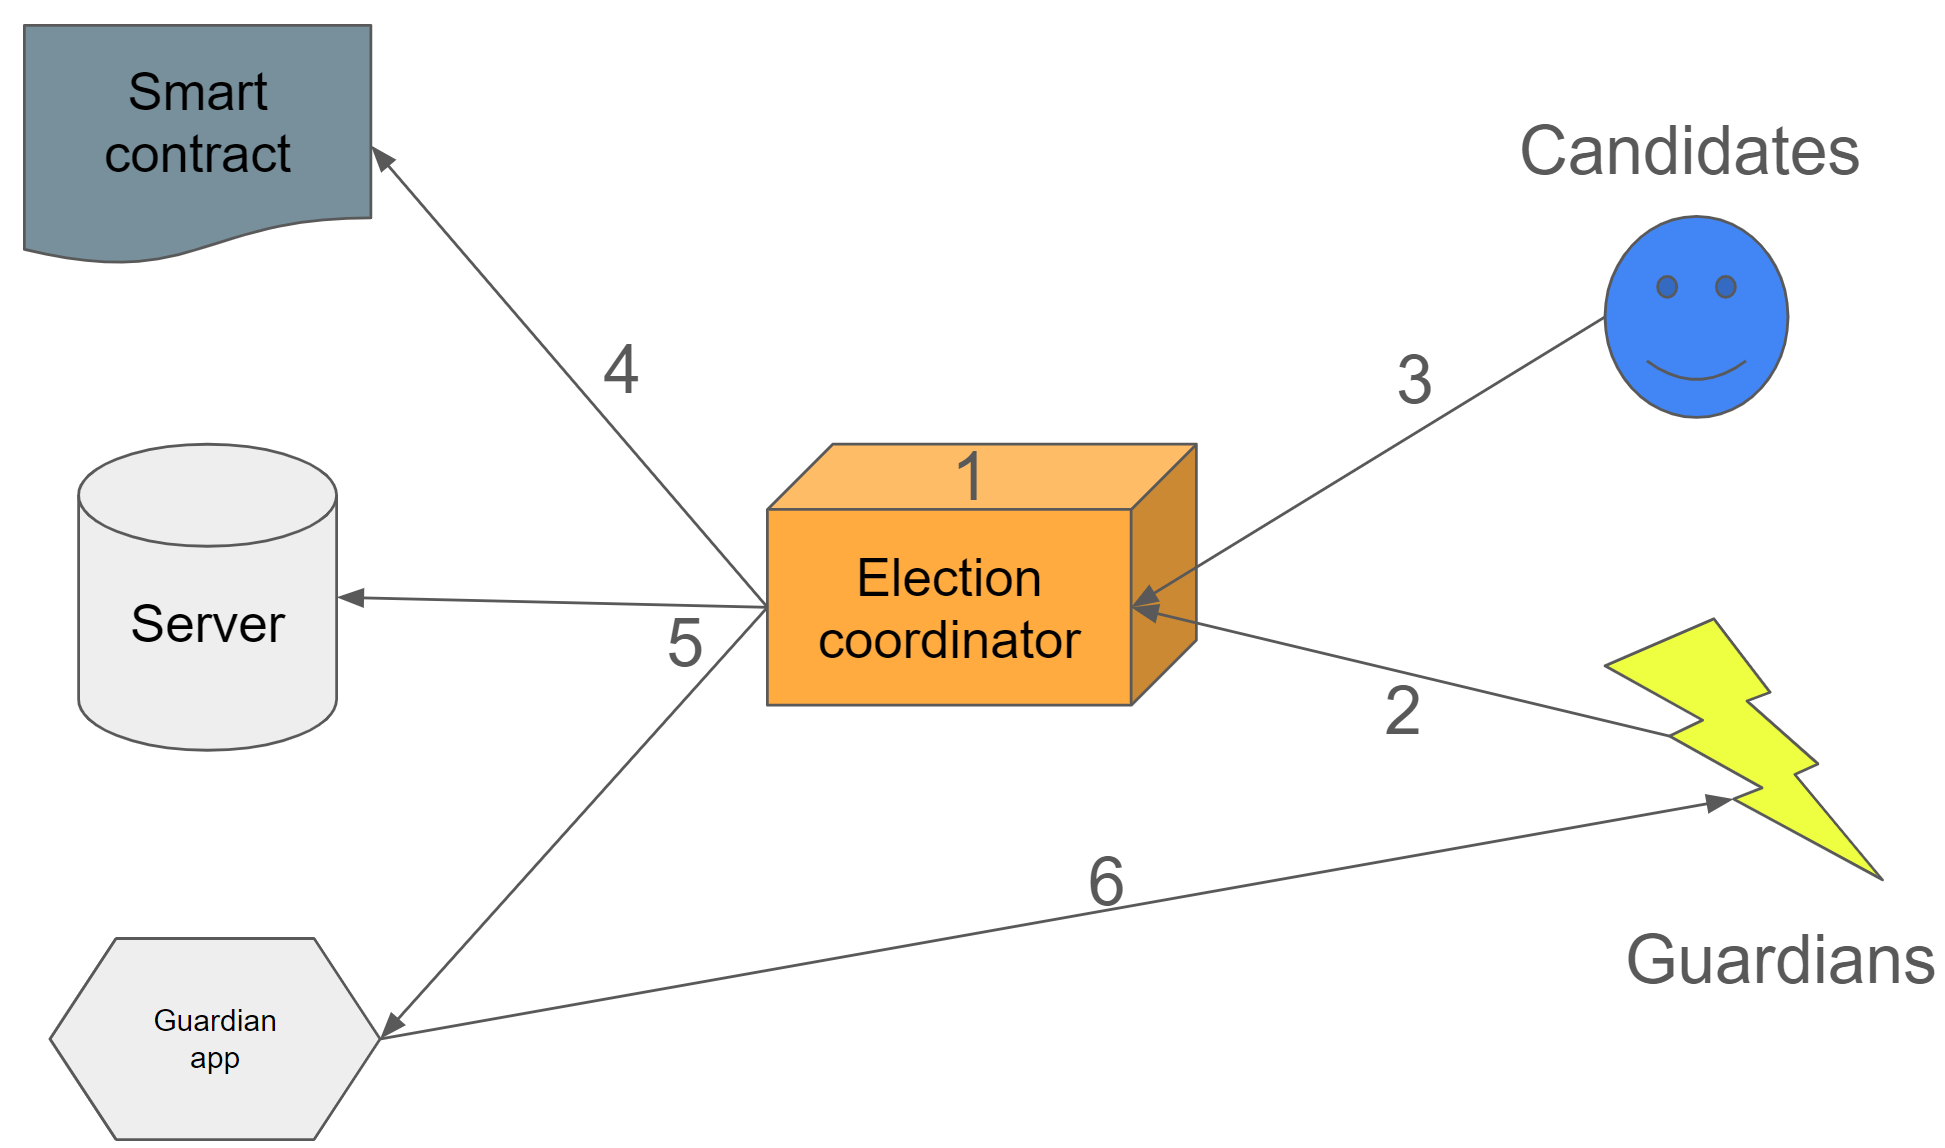
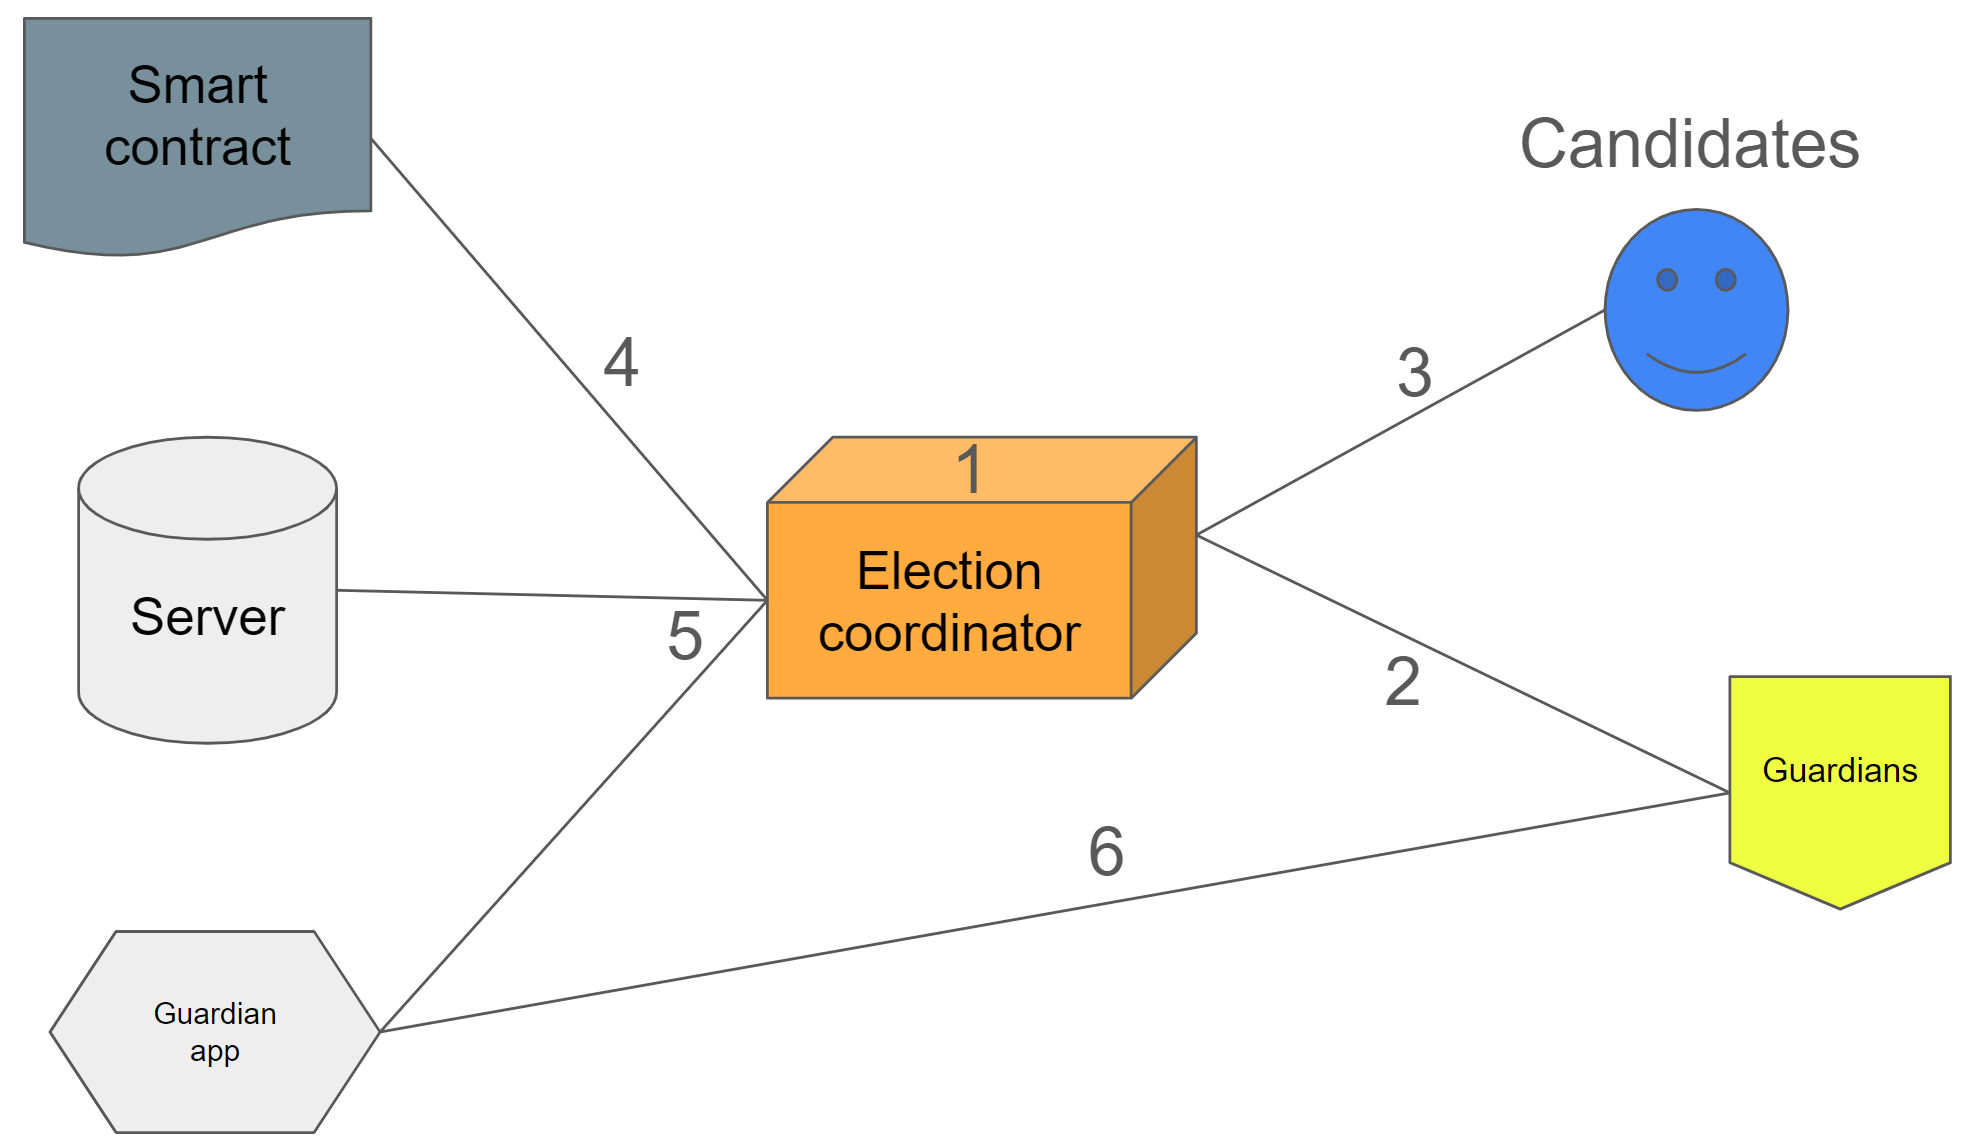
Replace diagrams and adjust wording of steps

diff --git a/source/mainnet/net/voting/gc-voting.rst b/source/mainnet/net/voting/gc-voting.rst
@@ -28,7 +28,7 @@ Before the election
 
 #. Each guardian sends their account address to Concordium.
 
-#. Candidates are nominated and can "campaign". Candidates can submit a JSON file with information such as name, URL of a site with information about their campaign. This information is shown in the voting dApp.
+#. Candidates are nominated and can "campaign". Candidates **must** submit a JSON file with information such as name, an image or logo, and the URL of a site with information about their campaign. This information is shown in the voting dApp.
 
 #. The Election coordinator adds the guardian addresses to the smart contract along with election parameters such as the start and end date and time, and candidates, and deploys and initializes the smart contract.
 
@@ -54,7 +54,7 @@ After the election
     :alt: diagram showing steps below
     :width: 50%
 
-#. Once the election closes, the election coordinator uses the coordinator tool to get the final weights and compute the encrypted tally which is registered in the smart contract.
+#. Once the election closes, the election coordinator uses the coordinator tool to get the final weights (the initial weights plus weights after taking vote delegation into account) and compute the encrypted tally which is registered in the smart contract.
 
 #. The guardians use the Guardian app to generate their decryption share of the tally and post that before the deadline specified. They then generate and register proof of correct decryption. If proof generation fails, manual intervention is required by the election coordinator to reset the tally phase with the option of excluding any number of guardians.
 
